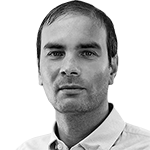
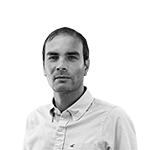
Home.js - author's picture loading - testing

diff --git a/src/components/AppBar.js b/src/components/AppBar.js
@@ -36,6 +36,7 @@ let theme = createTheme({
       // modra na pismo
       dark: "#29375b",
       black: "#191919",
+      white: "#F8F8F8",
     },
   },
   // typography: {
@@ -99,7 +100,7 @@ function ButtonAppBar({ activeNav, whiteNavbar, transparentNavbar }) {
                     fontSize: "1.5em",
                     fontWeight: "900",
                     padding: "0.8em",
-                    color: "tertiary.main",
+                    color: "font.white",
                     transition: theme.transitions.create(
                       ["color", "transform"],
                       {
@@ -149,7 +150,7 @@ function ButtonAppBar({ activeNav, whiteNavbar, transparentNavbar }) {
                     href="/"
                     sx={[
                       {
-                        color: "tertiary.main",
+                        color: "font.white",
                         transition: theme.transitions.create(
                           ["color", "transform"],
                           {
@@ -179,7 +180,7 @@ function ButtonAppBar({ activeNav, whiteNavbar, transparentNavbar }) {
                     href="/"
                     sx={[
                       {
-                        color: "tertiary.main",
+                        color: "font.white",
                         transition: theme.transitions.create(
                           ["color", "transform"],
                           {
@@ -209,7 +210,7 @@ function ButtonAppBar({ activeNav, whiteNavbar, transparentNavbar }) {
                     href="/"
                     sx={[
                       {
-                        color: "tertiary.main",
+                        color: "font.white",
                         transition: theme.transitions.create(
                           ["color", "transform"],
                           {
@@ -239,7 +240,7 @@ function ButtonAppBar({ activeNav, whiteNavbar, transparentNavbar }) {
                     href="/"
                     sx={[
                       {
-                        color: "tertiary.main",
+                        color: "font.white",
                         transition: theme.transitions.create(
                           ["color", "transform"],
                           {
@@ -272,7 +273,7 @@ function ButtonAppBar({ activeNav, whiteNavbar, transparentNavbar }) {
                     href="/"
                     sx={[
                       {
-                        color: "tertiary.main",
+                        color: "font.white",
                         transition: theme.transitions.create(
                           ["color", "transform"],
                           {
@@ -307,7 +308,7 @@ function ButtonAppBar({ activeNav, whiteNavbar, transparentNavbar }) {
                     sx={[
                       {
                         mr: 2,
-                        color: "tertiary.main",
+                        color: "font.white",
                         transition: theme.transitions.create(
                           ["color", "transform"],
                           {

diff --git a/src/components/Home.css b/src/components/Home.css
@@ -8,7 +8,6 @@
 
 
 }
-
 .circles {
     position: absolute;
     top: 0;
@@ -19,7 +18,6 @@
     padding: 0;
     margin: 0;
 }
-
 .circles li {
     position: absolute;
     display: block;
@@ -31,15 +29,12 @@
     bottom: -150px;
 
 }
-
 .circles li:nth-child(1) {
     left: 25%;
     width: 80px;
     height: 80px;
     animation-delay: 0s;
 }
-
-
 .circles li:nth-child(2) {
     left: 10%;
     width: 20px;
@@ -47,14 +42,12 @@
     animation-delay: 2s;
     animation-duration: 12s;
 }
-
 .circles li:nth-child(3) {
     left: 70%;
     width: 20px;
     height: 20px;
     animation-delay: 4s;
 }
-
 .circles li:nth-child(4) {
     left: 40%;
     width: 60px;
@@ -62,28 +55,24 @@
     animation-delay: 0s;
     animation-duration: 18s;
 }
-
 .circles li:nth-child(5) {
     left: 65%;
     width: 20px;
     height: 20px;
     animation-delay: 0s;
 }
-
 .circles li:nth-child(6) {
     left: 75%;
     width: 110px;
     height: 110px;
     animation-delay: 3s;
 }
-
 .circles li:nth-child(7) {
     left: 35%;
     width: 150px;
     height: 150px;
     animation-delay: 7s;
 }
-
 .circles li:nth-child(8) {
     left: 50%;
     width: 25px;
@@ -91,7 +80,6 @@
     animation-delay: 15s;
     animation-duration: 45s;
 }
-
 .circles li:nth-child(9) {
     left: 20%;
     width: 15px;
@@ -99,7 +87,6 @@
     animation-delay: 2s;
     animation-duration: 35s;
 }
-
 .circles li:nth-child(10) {
     left: 85%;
     width: 150px;
@@ -107,9 +94,6 @@
     animation-delay: 0s;
     animation-duration: 11s;
 }
-
-
-
 @keyframes animate {
 
     0% {
@@ -127,10 +111,12 @@
 }
 
 img {
-    border-radius: 50%;
-    border: 3px solid #ff6a3d;
+    border-radius: 12%;
+    border: 4px solid whitesmoke;
+    /* border: 3px solid hsla(0,0%,100%,.5); */
     width: 100%;
     height: auto;
+    background-color: #9daaf2;
 }
 
 

diff --git a/src/components/Home.js b/src/components/Home.js
@@ -18,9 +18,8 @@ const Home = () => {
             position: "absolute",
           }}
         >
-          <Grid item sx={{ maxWidth: "100px" }}>
-            <p>ahoj</p>
-            {/* <img src="../lukas-small.png" alt="author" /> */}
+          <Grid item>
+            <img src="../lukas100.png" alt="author" />
           </Grid>
         </Grid>
         <div className="area">

diff --git a/README.md b/README.md
@@ -2,5 +2,5 @@
 
 git init
 git add .
-git commit -m "Home.js - background animation's bugs refactoring "
+git commit -m "Home.js - author's picture loading - testing "
 git push
